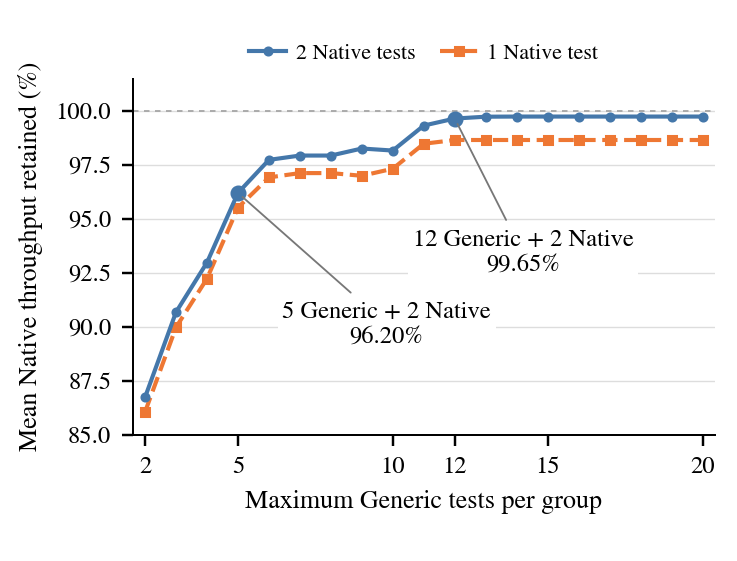
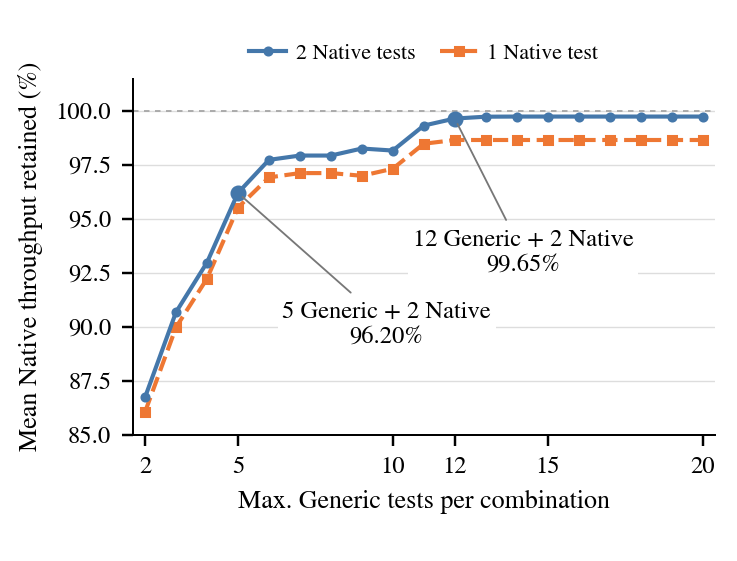
Use combination terminology in staged selection figure
Change the English Generic-test budget axis from group to combination.
Regenerate the English PDF, PNG and SVG in both publication locations and
refresh affected asset hashes. Keep all numerical outputs and German
figures unchanged.

Verified against 60 direct-graph aggregates and 3,780 per-combination
policy/budget cases; existing publication integration checks pass.

Changed region(s): [[0.3121, 0.8788, 0.8426, 0.9091]]

diff --git a/scripts/supplementary-studies/staged-selection/reproduce.py b/scripts/supplementary-studies/staged-selection/reproduce.py
@@ -265,7 +265,7 @@ def export_figure(output, summaries, language):
     ax.set_xlim(1.6, max(row['k'] for row in rows) + .4)
     ax.set_xticks([2, 5, 10, 12, 15, 20])
     if language == 'en':
-        ax.set_xlabel('Maximum Generic tests per group')
+        ax.set_xlabel('Max. Generic tests per combination')
         ax.set_ylabel('Mean Native throughput retained (%)')
         connector = 'Generic + 2 Native'
     else:
